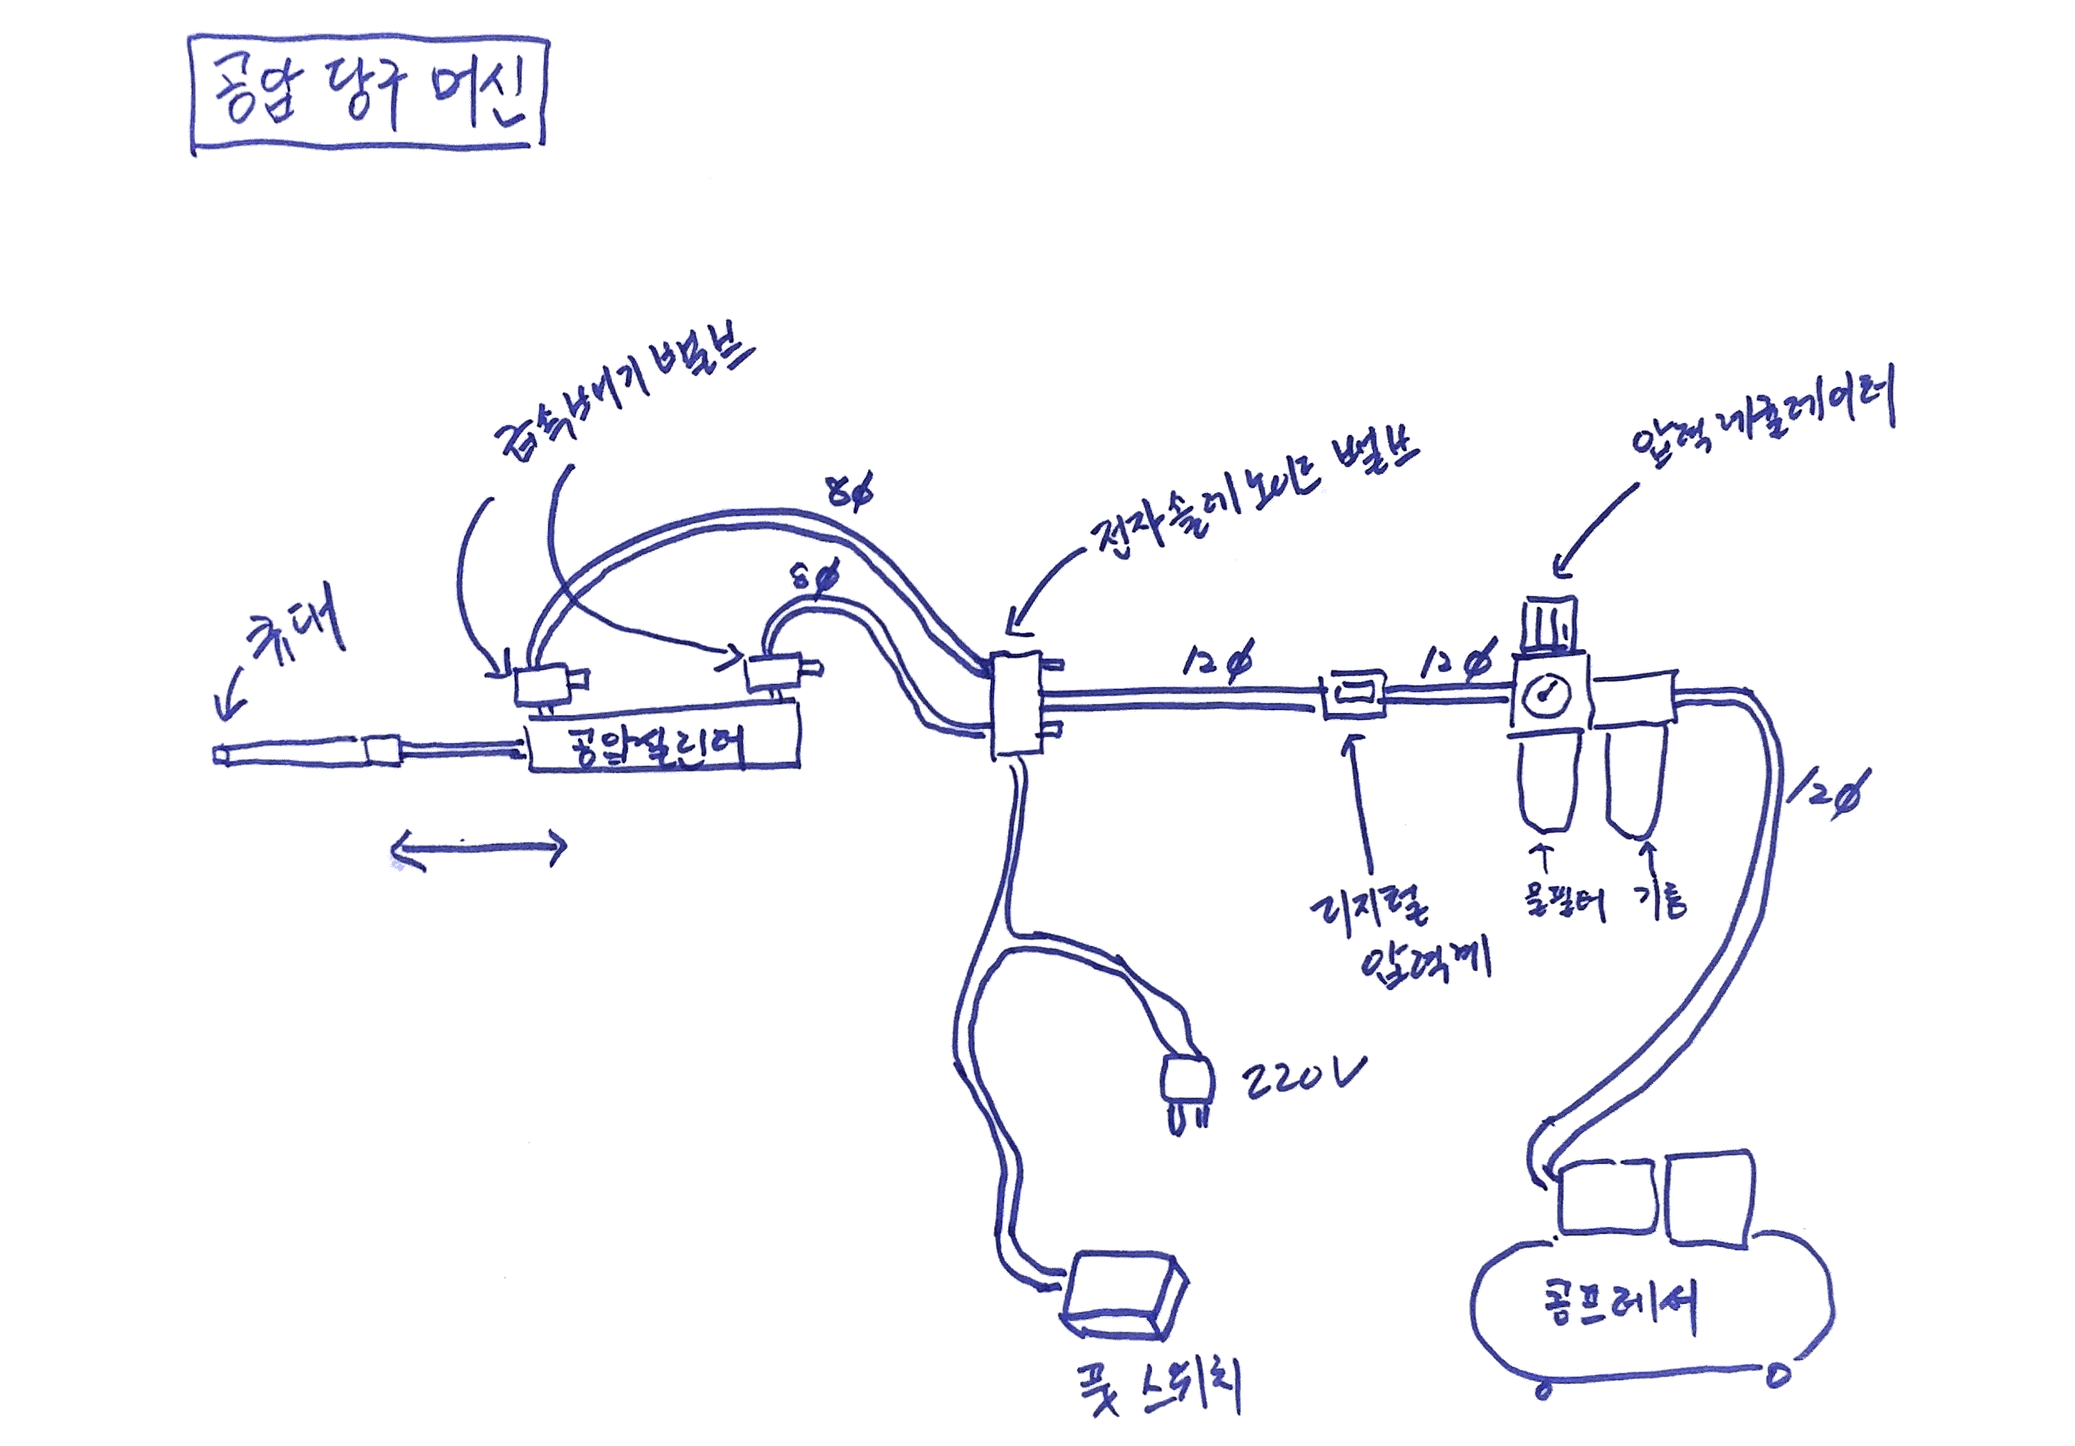
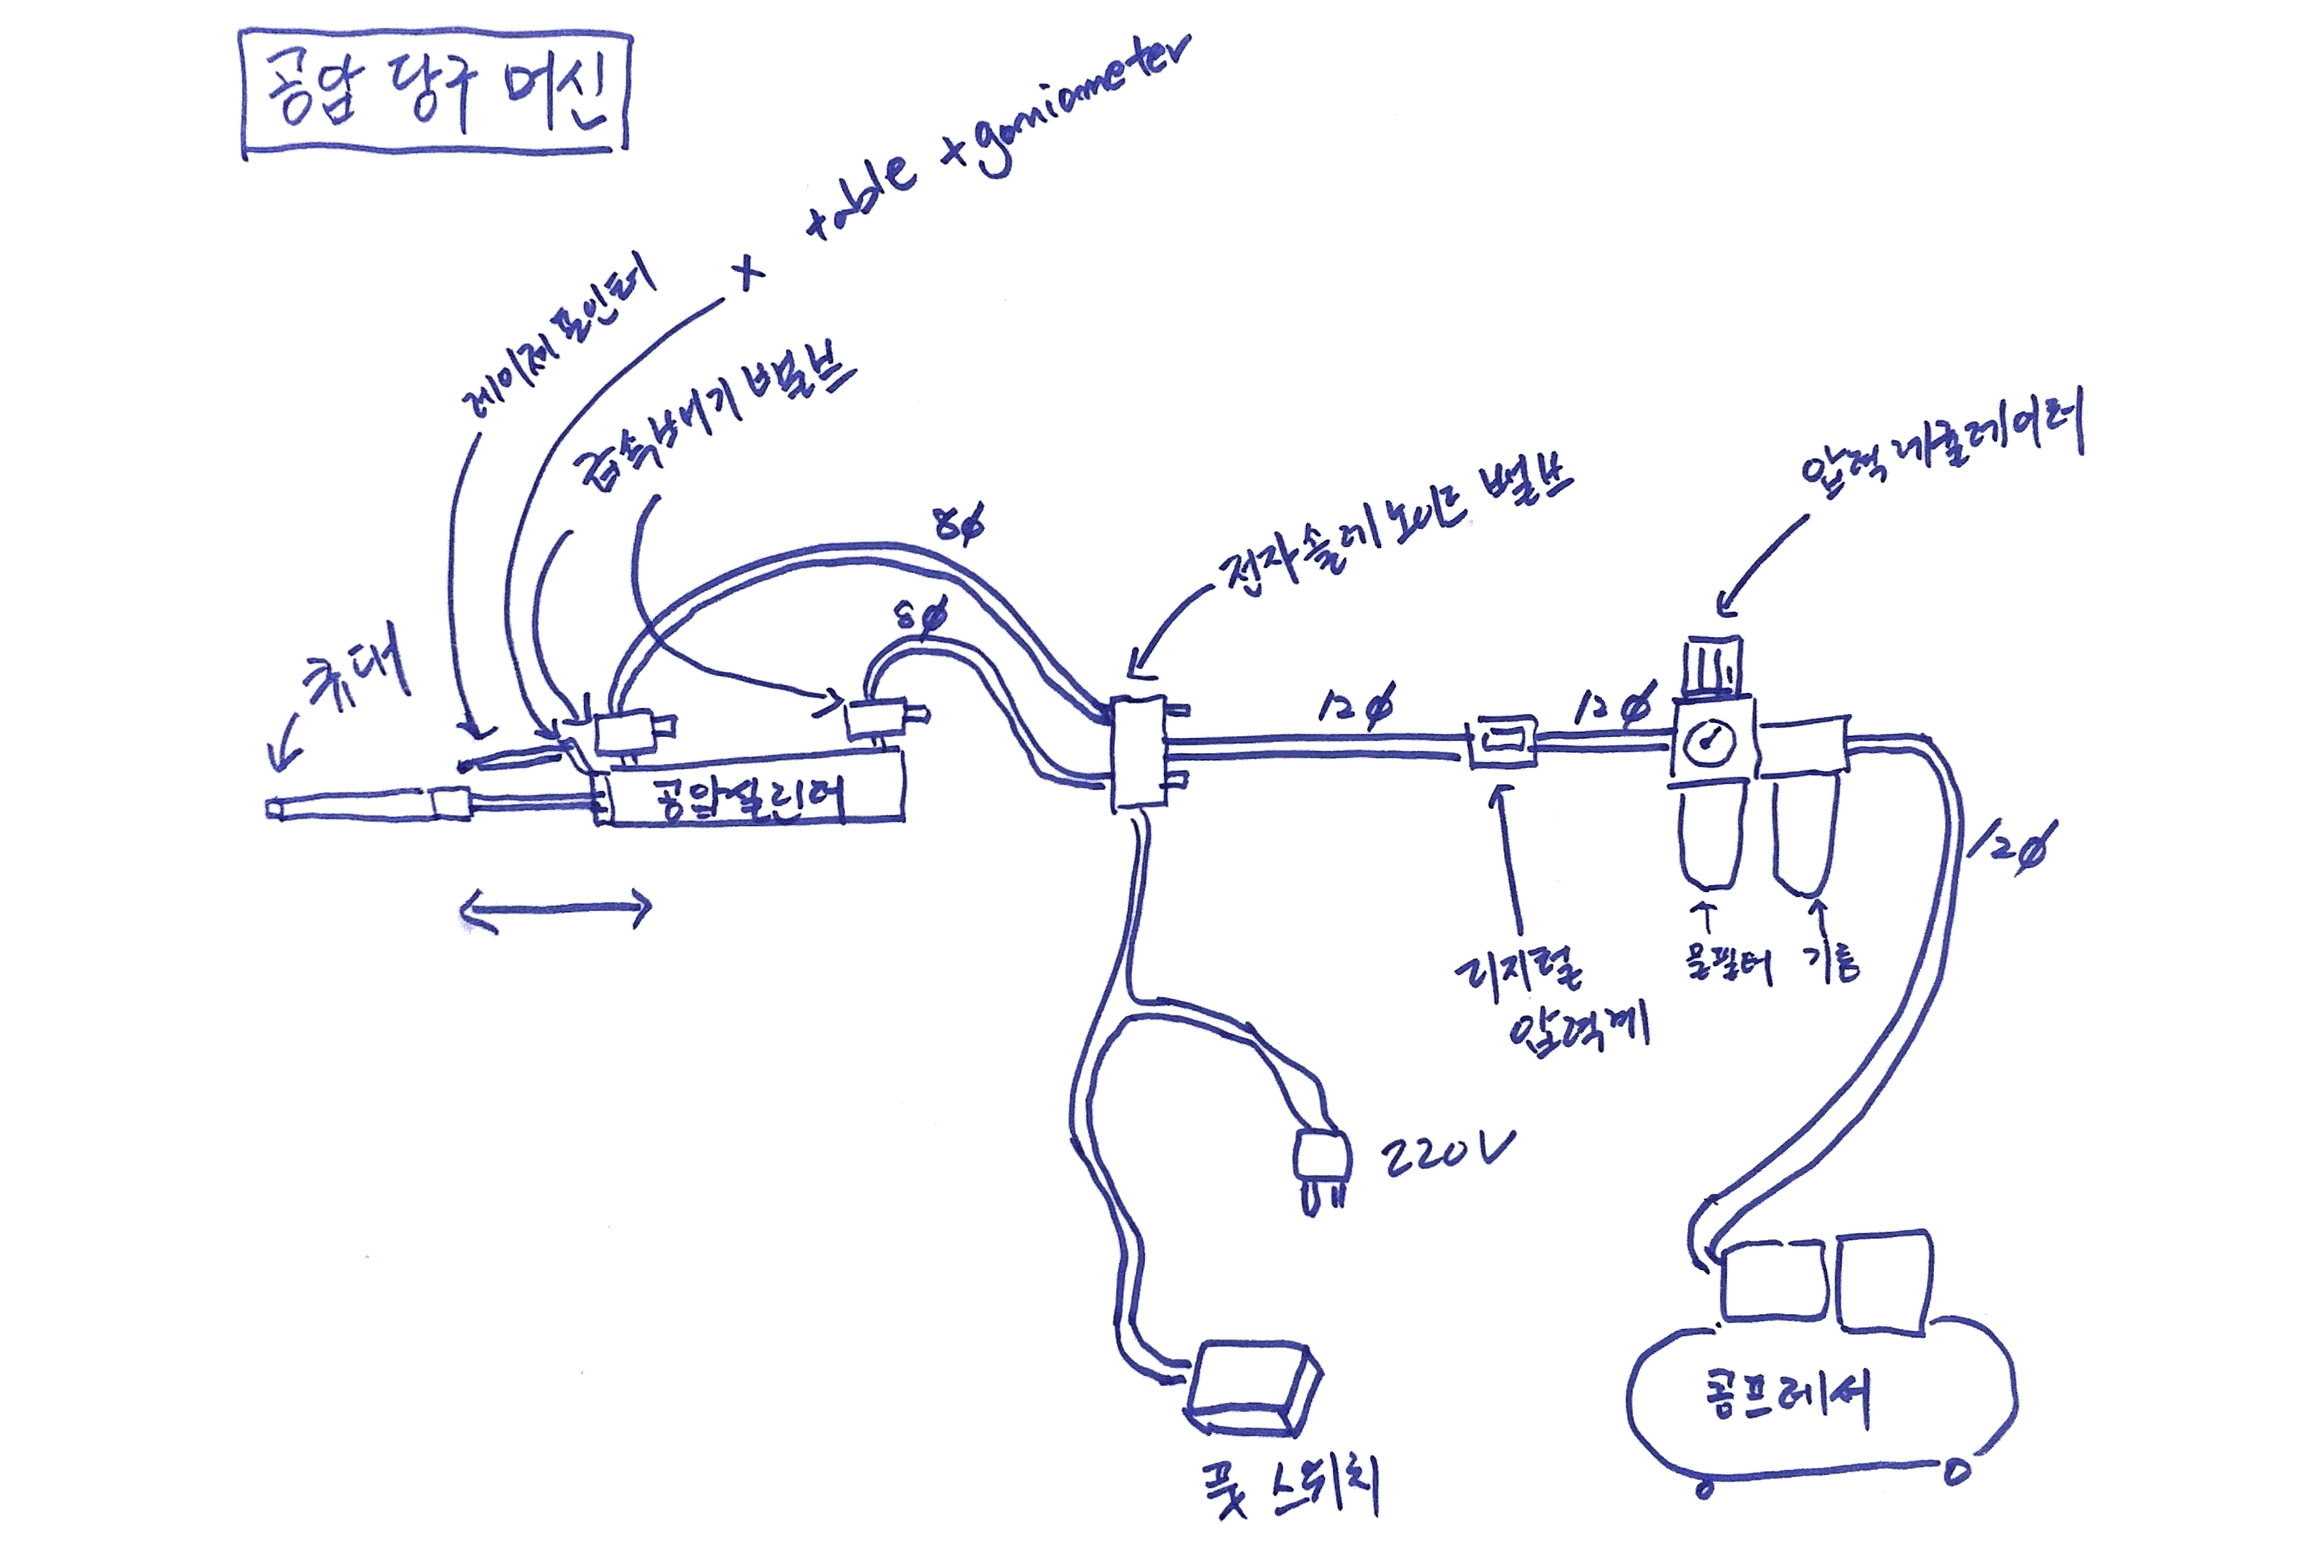
laser pointer

diff --git a/PneumaticMachine/README.md b/PneumaticMachine/README.md
@@ -18,9 +18,14 @@
 
 공압실린더의 속도를 늘리기위해서 가장 중요했던 부품은 '급속배기밸브' 였다. 급속 배기밸브는 실린더에서 공기가 차있지 않는 반대 연결부를 대기압의 상태로 유지시켜주는 장치다. 그래서 실린더가 동작할때 공기가 빨리 빠져나갈 수 있도록 해준다. 다음으로 '전자솔레노이드 밸브'. 사람이 수동으로 밸브를 여닫기 보다는 전자 솔레노이드로 빠르게 여닫아 준다. 다음으로 공압 호스의 직경. 최대한 직경이 넓은걸 콤프레서 쪽에서 연결해 온다. 우리는 12 파이 / 8파이의 조합을 사용하였다.
 
+다음으로 실린더의 길이도 중요했다. 길이가 적당히(죄송) 길어야 힘과 속도를 잡을 수 있다. 이건 여러 실린더를 번갈아 테스트해보면서 얻어냄.
+
 압력레귤레이터는 우리가 원하는 세기를 조절하기위해 장착하였고 물은 걸러주고 기름을 쳐주는 역할도 수행한다. 좀더 빠르고 부드러운 동작이 가능.
 
 디지털 압력계는 압력레귤레이터를 통해 설정한 압력을 눈으로 쉽게 확인할 수 있도록 해준다.
+
+마지막으로 우리가 원하는 당점을 맞추기 위해서 레이저 포인터와 미세조정용 stage를 사용혔다.(x axis stage + goniometer)
+
 
 #### 공압 당구 머신 구조부
 ![alt text](/PneumaticMachine/image/BilliardStructure.jpg "PneumaticMachine")
